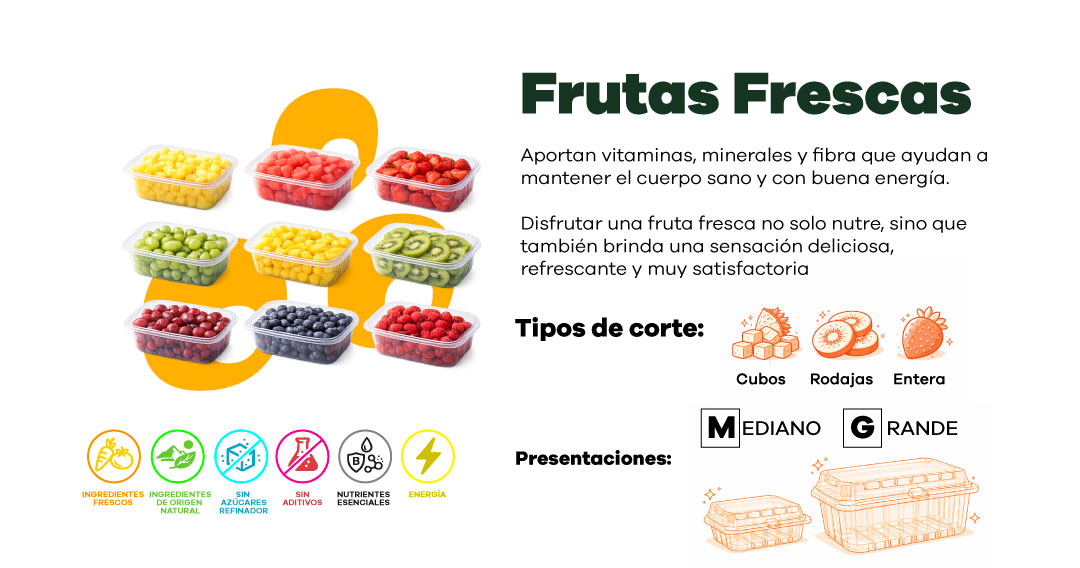
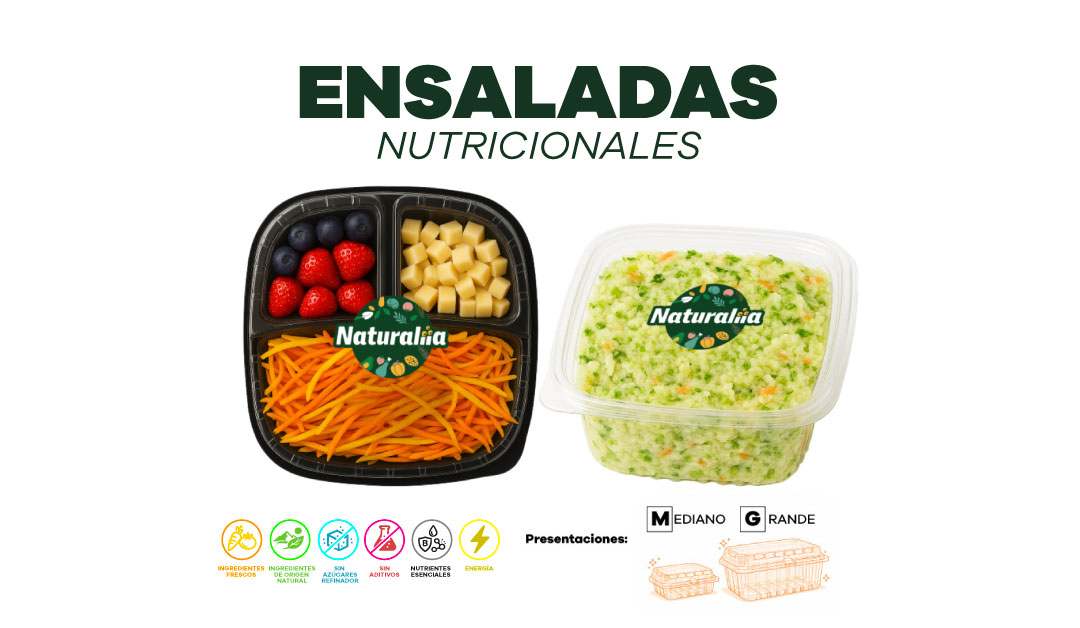
Add files via upload

diff --git a/index.html b/index.html
@@ -5,7 +5,7 @@
     <link rel="icon" type="image/svg+xml" href="img/faviconh.svg">
 <meta charset="UTF-8" />
 <meta name="viewport" content="width=device-width, initial-scale=1.0" />
-<title>PRUEBA</title>
+<title>Ensaladas</title>
 
 <style>
     body {
@@ -265,6 +265,74 @@
   font-weight: 600;
 }
 
+.producto-card {
+  width: 280px;
+  background: #ffffff;
+  border-radius: 16px;
+  padding: 20px;
+  box-shadow: 0 6px 20px rgba(0,0,0,0.1);
+  font-family: sans-serif;
+
+  
+}
+
+.producto-titulo {
+  font-size: 22px;
+  font-weight: 800;
+  text-align: center;
+  margin-bottom: 16px;
+  color: #143d1d;
+}
+
+.producto-items {
+  margin-bottom: 16px;
+}
+
+.producto-item {
+  display: flex;
+  align-items: center;
+  font-size: 18px;
+  margin-bottom: 8px;
+}
+
+.producto-item span {
+  margin-right: 10px;
+  font-size: 22px;
+}
+
+.producto-footer {
+  display: flex;
+  align-items: center;
+  justify-content: space-between;
+}
+
+.peso {
+  background: #143d1d;
+  color: white;
+  padding: 6px 12px;
+  border-radius: 20px;
+  font-weight: bold;
+  font-size: 14px;
+}
+
+.precio {
+  font-size: 22px;
+  font-weight: bold;
+}
+
+.productos-wrapper {
+  width: 100%;
+  display: flex;
+  justify-content: center;
+}
+
+.productos-grid {
+  display: grid;
+  grid-template-columns: repeat(auto-fit, minmax(260px, 1fr));
+  gap: 24px;
+  max-width: 1000px;
+}
+
 </style>
 </head>
 
@@ -272,13 +340,21 @@
 
 <!-- Barra fija -->
 <div class="navbar">
+    <img src="img/NAV.png" alt="">
 </div>
 
 <!-- Secciones solo con imágenes -->
 <div class="section">
     <img src="img/img01.jpg" alt="">
 </div>
-<div id="mixList"></div>
+
+<div class="productos-wrapper">
+  <div class="productos-grid" id="productos"></div>
+</div>
+
+
+<section class="mini-productos" id="miniProductos"></section>
+
 ``
 <!-- Botón flotante de WhatsApp -->
 <a class="whatsapp-btn" 
@@ -289,56 +365,191 @@
 </a>
 
 <script>
-  // ✅ 1. DATOS (PRIMERO SIEMPRE)
-  const mixes = [
-    {
-      titulo: "MIX DE VERDURA Y VERDURA",
-      iconos: ["🥕", "🧅", "🍏"],
-      items: [
-        { emoji: "🥕", nombre: "Zanahoria" },
-        { emoji: "🧅", nombre: "Piña" },
-        { emoji: "🍏", nombre: "Manzana" }
-      ],
-      unidad: "1LB",
-      valor: 25000
-    }
-  ];
+const productos = [
+  {
+    titulo: " Mix de Frutas y Verduras",
+    peso: "1LB Aprox",
+    precio: 17500,
+    items: [
+      { nombre: "Repollo", icono: "🥦" },
+      { nombre: "Zanahoria", icono: "🥕" },
+      { nombre: "Piña", icono: "🍍" },
+      { nombre: "maicitos ", icono: "🌽" },
+      { nombre: "Manzana", icono: "🍏" },
+      { nombre: "vinagreta cremosa ", icono: "🌽" }
+      
+    ]
+  },
+  {
+    titulo: "Ensalada tipo Frisby",
+    peso: "1LB",
+    precio: 15000,
+    items: [
+      { nombre: "Repollo", icono: "🥦" },  
+      { nombre: "Zanahoria estilo clásico", icono: "🥕" },
+      { nombre: "Cebolla", icono: "🧅" },
+      { nombre: "Aderezo base de mayonesa", icono: "🍍" }
+      
+    ]
+  },
+  {
+    titulo: "Ensalada Remolacha con Zanahoria",
+    peso: "1LB",
+    precio: 12000,
+    items: [
+      { nombre: "Remolacha ", icono: "🫜" },
+      { nombre: "Zanahoria", icono: "🥕" },
+      { nombre: "Cilantro", icono: "🌿" },
+      { nombre: "Cebolla", icono: "🧅" }
+   ]
+  },
+  {
+    titulo: "Ensalada Rusa",
+    peso: "1LB",
+    precio: 18000,
+    items: [
+      { nombre: "Papa ", icono: "🥔" },
+      { nombre: "Zanahoria", icono: "🥕" },
+      { nombre: "Arveja", icono: "🌿" },
+      { nombre: "Cebolla", icono: "🧅" },
+      { nombre: "Cilantro", icono: "🌿" },
+   ]
+  },
+   {
+    titulo: "Chup Suey",
+    peso: "1LB",
+    precio: 16000,
+    items: [
+      { nombre: "+ Salsa Teriyaki ", icono: "🫙" },
+   ]
+  },
+  {
+    titulo: "Ensalada Campesina",
+    peso: "1LB",
+    precio: 15000,
+    items: [
+      { nombre: "Repollo", icono: "🥦" },
+      { nombre: "Zanahoria", icono: "🥕" },
+      { nombre: "Cebolla", icono: "🧅" },
+      { nombre: "Cilantro", icono: "🌿" },
+      { nombre: "Tomate cherry", icono: "🍅" },
+   ]
+  },
+  {
+    titulo: "Fiestera",
+    peso: "1LB",
+    precio: 16500,
+    items: [
+      { nombre: "Repollo", icono: "🥦" },
+      { nombre: "Piña", icono: "🍍" },
+      { nombre: "Manzana", icono: "🍎" },
+      { nombre: "Arandanos deshidratados", icono: "🫐" },
+   ]
+  },
+  {
+    titulo: "Tropical",
+    peso: "1LB",
+    precio: 16500,
+    items: [
+      { nombre: "Zanahoria", icono: "🥕" },
+      { nombre: "zuccini", icono: "🎃" },
+      { nombre: "Uva", icono: "🍇" },
+      { nombre: "Manzana", icono: "🍎" },
+      { nombre: "Mango", icono: "🥭" },
+      { nombre: "Tomate cherry", icono: "🍅" },
+      { nombre: "Queso", icono: "🧀" },
+   ]
+  },
+  {
+    titulo: "Pasta Tricolor",
+    peso: "1LB",
+    precio: 17000,
+    items: [
+      { nombre: "Pasta Tornillo", icono: "🔩" },
+      { nombre: "Piña", icono: "🍍" },
+      { nombre: "Mango", icono: "🥭" },
+      { nombre: "Manzana", icono: "🍎" },
+      { nombre: "Queso", icono: "🧀" },
+      { nombre: "Tocineta", icono: "🥓" },
+   ]
+  },
+   {
+    titulo: "Ensalada Clasica",
+    peso: "1LB",
+    precio: 12000,
+    items: [
+      { nombre: "Lechuga", icono: "🥬" },
+      { nombre: "Tomate", icono: "🍅" },
+      { nombre: "Cebolla", icono: "🧅" },
+      { nombre: "Aguacate", icono: "🥑" },
+      { nombre: "Vinagreta", icono: "🫙" },
+   ]
+  },
+  {
+    titulo: "Ensalada Cesar",
+    peso: "1LB",
+    precio: 18000,
+    items: [
+      { nombre: "Tostada", icono: "🍞" },
+      { nombre: "Lechuga", icono: "🥬" },
+      { nombre: "huevo", icono: "🧀" },
+      { nombre: "Aderezo", icono: "🧀" },
+   ]
+  },
+];
 
-  // ✅ 2. CONTENEDOR
-  const cont = document.getElementById("mixList");
+const container = document.getElementById("productos");
 
-  // ✅ 3. RENDER
-  mixes.forEach(mix => {
-    cont.innerHTML += `
-      <div class="mix-item">
+container.innerHTML = productos.map(producto => `
+  <div class="producto-card">
+    <div class="producto-titulo">${producto.titulo}</div>
 
-        <div class="mix-icons">
-          ${mix.iconos.map(i => `<span>${i}</span>`).join("")}
+    <div class="producto-items">
+      ${producto.items.map(item => `
+        <div class="producto-item">
+          <span>${item.icono}</span>
+          <div>${item.nombre}</div>
         </div>
+      `).join("")}
+    </div>
 
-        <div class="mix-content">
-          <h3 class="mix-title">${mix.titulo}</h3>
-
-          <ul class="mix-items">
-            ${mix.items.map(p => `
-              <li>
-                <span>${p.emoji}</span>
-                <span>${p.nombre}</span>
-              </li>
-            `).join("")}
-          </ul>
-
-          <div class="mix-footer">
-            <span class="mix-unit">${mix.unidad}</span>
-            <span class="mix-price">$${mix.valor.toLocaleString()}</span>
-          </div>
-        </div>
-
-      </div>
-    `;
-  });
+    <div class="producto-footer">
+      <div class="peso">${producto.peso}</div>
+      <div class="precio">$${producto.precio.toLocaleString()}</div>
+    </div>
+  </div>
+`).join("");
 </script>
 ``
+<script>
+    window.addEventListener("load", () => {
+        const loader = document.getElementById("preloader");
+        loader.classList.add("hidden");
+    });
+    
+const productos = [
+ 
+  
+];
+
+const cont = document.getElementById('miniProductos');
+
+productos.forEach(p => {
+  cont.innerHTML += `
+    <div class="mini-card">
+      <span class="mini-emoji">${p.emoji}</span>
+
+      <div class="mini-info">
+        <h3>${p.descripcion}</h3>
+        <div class="mini-detalle">
+          <span class="mini-unidad">${p.unidad}</span>
+          <span class="mini-valor">$${p.valor.toLocaleString()}</span>
+        </div>
+      </div>
+    </div>
+  `;
+});
+</script>
 
 </body>
 
